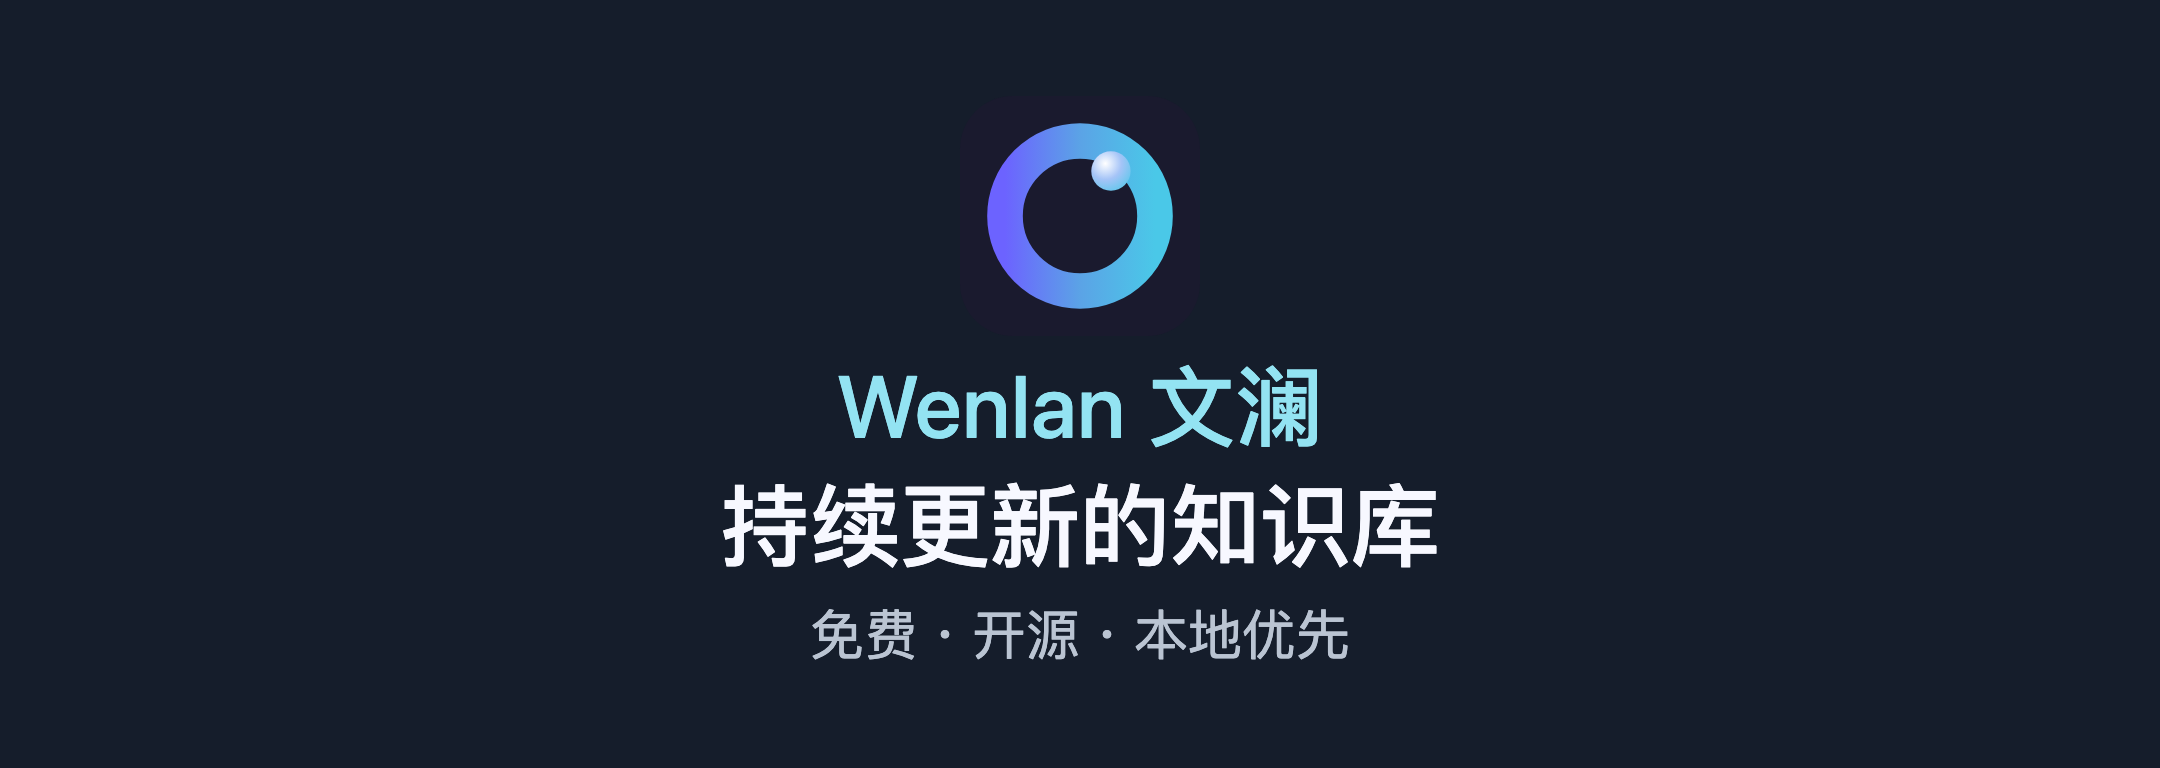
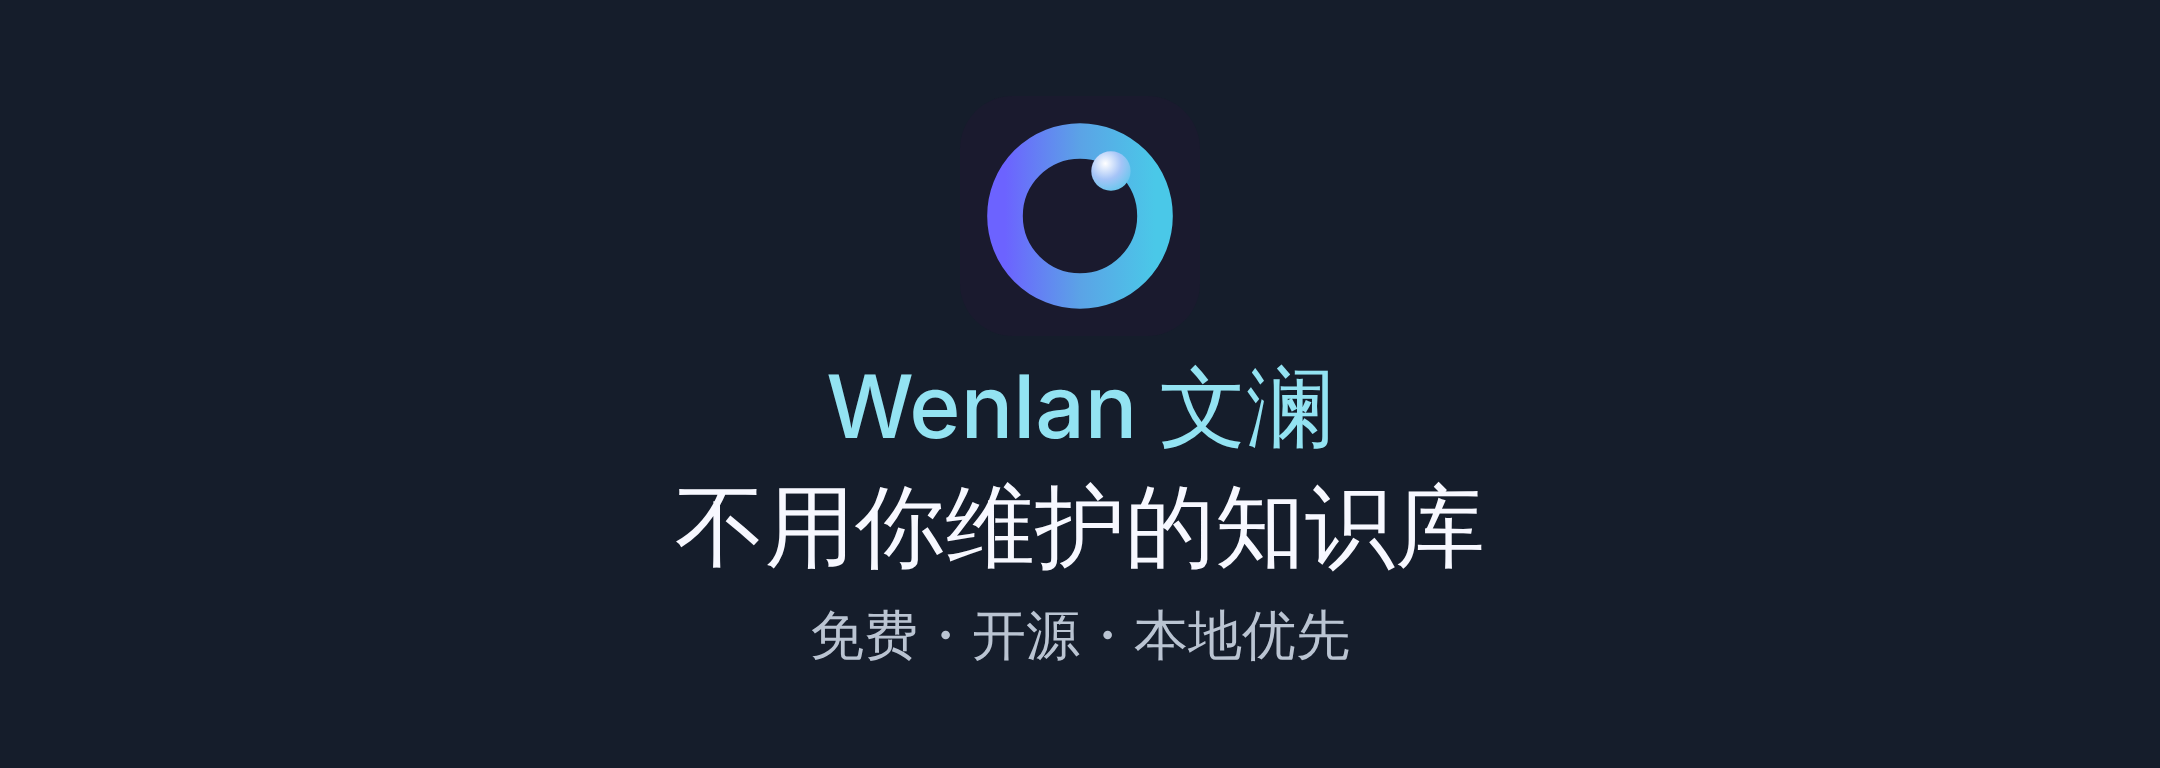
docs(readme): rewrite the opening around the knowledge base you don't have to maintain
All four READMEs now open with the locked positioning: write when you want,
your AI keeps it organized; an open-source Obsidian alternative that connects
to your AI tools in one click, with no plugins to install or maintain, and
can be shared with a team. "Why Wenlan" is rewritten to match, and "Connect
your AI tool" leads with Add a tool / Connect all before the per-tool table.

The README banners and the GitHub social preview image carry the new title;
English and Spanish banners use a two-line title.

Claude-Session: https://claude.ai/code/session_01LyK3XxRwEZRh381xxUbxi7

diff --git a/README.es-ES.md b/README.es-ES.md
@@ -1,16 +1,16 @@
-<!-- README_SYNC: source=README.md sha256=30b6ff5b752a6fd1a08377d57c043c4aef9d98f4e96e976d2ac6abc0d7af3e4b -->
+<!-- README_SYNC: source=README.md sha256=6f6a63a03c27819a5b40369a89d794d4bb3317233a7c299c6859f951b04ccc39 -->
 
 <p align="center">
   <picture>
     <source media="(max-width: 600px)" srcset="./docs/assets/readme-banner-es-ES-mobile.png">
-    <img src="./docs/assets/readme-banner-es-ES.png" alt="Wenlan: Tu wiki viva. Gratis, de código abierto y local-first." width="100%">
+    <img src="./docs/assets/readme-banner-es-ES.png" alt="Wenlan: la base de conocimiento que no tienes que mantener. Gratis, de código abierto y local-first." width="100%">
   </picture>
 </p>
 
 <p align="center">
-  <strong>Notas, código y chats de IA en una wiki, contrastada con sus fuentes.</strong><br>
-  Una sola fuente de verdad para ti y tus herramientas de IA, al día cuando cambian tus fuentes.<br>
-  Tus notas se quedan en tu equipo y solo van a las herramientas de IA que elijas.
+  <strong>Escribe cuando quieras; tu IA la mantiene organizada.</strong><br>
+  Alternativa de código abierto a Obsidian. Se conecta a tus herramientas de IA con un clic, sin plugins que instalar ni mantener.<br>
+  Compártela con tu equipo. Tus notas se quedan en tu equipo y solo van a las herramientas de IA que elijas.
 </p>
 
 <p align="center">
@@ -41,11 +41,14 @@
 
 ## Por qué Wenlan
 
-- **Tu IA la escribe y la mantiene al día:** la herramienta de IA que ya usas convierte tus notas, archivos y chats de IA en páginas, sin otro modelo.
+Empecé Wenlan porque mis notas, documentos y chats de IA estaban dispersos, y evitar que un sistema de notas se echara a perder exigía un mantenimiento constante. Wenlan es para quienes usan herramientas de IA a diario y no quieren mantener un sistema de notas.
+
+- **Escribe cuando quieras:** abre una página y escribe, en cualquier momento. Las páginas que escribiste quedan en **Ask me first**, y Wenlan nunca edita tus notas existentes sin tu permiso.
+- **Tu IA la mantiene organizada:** la herramienta de IA que ya usas convierte tus notas, archivos y chats de IA en páginas, las enlaza y las pone al día cuando cambia una fuente. Wenlan no trae una IA propia.
+- **Conexión con un clic:** **Connect all** en los ajustes configura las herramientas de IA de tu ordenador. Sin plugins que buscar, instalar ni mantener.
 - **Te dice lo que no puede respaldar:** se rechaza una página cuando la mayoría de sus citas no coinciden con la fuente, y cada cita abre el original.
-- **Marca lo que cambió:** cuando cambia una fuente, una página o una línea de código, solo se marcan las páginas que dependen de ella.
-- **Lo que escribes sigue siendo tuyo:** Wenlan nunca edita tus notas existentes sin tu permiso, y las páginas que escribiste quedan en **Ask me first**.
-- **Trae lo que ya tienes y consérvalo al cambiar de herramienta:** notas, documentos, enlaces y chats entran ([lista completa](#what-can-i-bring-in)) como Markdown local que sirve en las herramientas de IA que elijas.
+- **Compártela con tu equipo:** comparte un Space a través de una carpeta de Google Drive o iCloud Drive, y tus compañeros lo añaden en sus propios ordenadores.
+- **Trae lo que ya tienes:** notas, documentos, enlaces, chats y bóvedas de Obsidian entran ([lista completa](#what-can-i-bring-in)) como archivos Markdown locales.
 
 <a id="quickstart"></a>
 <a id="start-in-30-seconds"></a>
@@ -73,17 +76,19 @@ Crea una página o trae una bóveda de Obsidian, un grafo de Logseq, una carpeta
 
 ### 3. Conecta tu herramienta de IA
 
-| Herramienta de IA | Conexión | Configuración |
+En los ajustes de la aplicación, **Add a tool** encuentra las herramientas de IA de tu ordenador y **Connect all** las configura con un solo clic. No hay nada más que instalar ni mantener al día. Después, inicia una nueva sesión de IA y pide:
+
+> /recall mis páginas y decisiones anteriores sobre esto y luego ayúdame con: …
+
+Para configurar una herramienta a mano, o ver qué se conecta:
+
+| Herramienta de IA | Qué se configura | Guía |
 |---|---|---|
 | Claude Code / Claude Desktop | Plugin / MCP | [Guía de Claude](docs/setup-with-ai.md#claude-code) |
 | ChatGPT Desktop (Codex), Codex CLI | Plugin | [Guía de Codex](docs/setup-with-ai.md#codex) |
 | Cursor, GitHub Copilot, VS Code, Gemini CLI, Antigravity, Windsurf, Kiro, OpenCode, Kimi Code | MCP y skills | [Guía de MCP](docs/setup-with-ai.md#mcp-only-setup-and-other-clients) |
 | Muse Code y otros clientes MCP | MCP | [Guía de MCP](docs/setup-with-ai.md#mcp-only-setup-and-other-clients) |
 | Grok Bot | CLI en tu ordenador, o MCP | [Guía de Grok Bot](docs/setup-with-ai.md#grok-bot) |
-
-En los ajustes de la aplicación, **Add a tool** encuentra las herramientas de IA de tu ordenador y **Connect all** las configura con un solo clic. Después, inicia una nueva sesión de IA y pide:
-
-> /recall mis páginas y decisiones anteriores sobre esto y luego ayúdame con: …
 
 En Codex, usa `$recall`; con una herramienta solo MCP, pídele que consulte Wenlan primero. Grok Bot ejecuta `wenlan recall` en tu ordenador, o una sesión corta de `wenlan-mcp` allí ([guía de Grok Bot](docs/setup-with-ai.md#grok-bot)).
 

diff --git a/README.zh-Hant.md b/README.zh-Hant.md
@@ -1,16 +1,16 @@
-<!-- README_SYNC: source=README.md sha256=30b6ff5b752a6fd1a08377d57c043c4aef9d98f4e96e976d2ac6abc0d7af3e4b -->
+<!-- README_SYNC: source=README.md sha256=6f6a63a03c27819a5b40369a89d794d4bb3317233a7c299c6859f951b04ccc39 -->
 
 <p align="center">
   <picture>
     <source media="(max-width: 600px)" srcset="./docs/assets/readme-banner-zh-Hant-mobile.png">
-    <img src="./docs/assets/readme-banner-zh-Hant.png" alt="Wenlan：持續更新的知識庫。免費、開源、本地優先。" width="100%">
+    <img src="./docs/assets/readme-banner-zh-Hant.png" alt="文瀾：不用你維護的知識庫。免費、開源、本地優先。" width="100%">
   </picture>
 </p>
 
 <p align="center">
-  <strong>筆記、程式碼、AI 對話整理成知識庫，對照過來源。</strong><br>
-  你和 AI 工具共用同一份資料，來源變了會跟著更新。<br>
-  你的筆記留在你的電腦上，只會送到你選的 AI 工具。
+  <strong>想寫就自己寫，其他交給 AI 整理。</strong><br>
+  開源的 Obsidian 替代品。一鍵連上你的 AI 工具，不用自己裝插件、維護插件。<br>
+  還能跟團隊共用。你的筆記留在你的電腦上，只會送到你選的 AI 工具。
 </p>
 
 <p align="center">
@@ -41,13 +41,14 @@
 
 ## 為什麼用文瀾
 
-我做文瀾，是因為筆記、文件和 AI 對話散落各處又一直在變，要讓筆記庫不荒廢得不停維護。我想要一個 AI 原生、不用費心照顧的知識庫。
+我做文瀾，是因為筆記、文件和 AI 對話散落各處，要讓筆記系統不荒廢得不停維護。文瀾是給每天用 AI 工具、又不想維護筆記系統的人。
 
-- **你的 AI 幫你寫、幫你維護：** 你平常用的 AI 工具把你的文件、舊筆記和 AI 對話寫成新的筆記，不用另外裝模型。
+- **想寫就自己寫：** 隨時打開一頁就能寫。你寫的筆記設成「先問我」，沒有你同意，不會改動你原有的筆記。
+- **其他交給 AI 整理：** 你平常用的 AI 工具把你的筆記、文件和 AI 對話寫成筆記、連起來，來源變了就跟著更新。文瀾不自帶 AI。
+- **一鍵連上：** 在設定裡按「全部連接」，就連好你電腦上的 AI 工具。不用自己找插件、裝插件、維護插件。
 - **撐不住的會告訴你：** 引用大多對不上來源的筆記不會存下，每個引用都能點回原文。
-- **變了會標出來：** 來源、筆記或程式碼一變，只有依靠它的筆記會被標出來。
-- **你寫的還是你的：** 沒有你同意，不會改動你原有的筆記；你寫的筆記設成「先問我」。
-- **帶進現有資料，換工具也不怕：** 筆記、文件、連結和對話都能帶進來（[完整清單](#what-can-i-bring-in)），存成本地 Markdown，你選的 AI 工具都能用。
+- **跟團隊共用：** 把一個 Space 放進 Google Drive 或 iCloud 雲碟的資料夾共用，同事在自己的電腦上加入就能用。
+- **帶進現有資料：** 筆記、文件、連結、對話和 Obsidian vault 都能帶進來（[完整清單](#what-can-i-bring-in)），存成本地 Markdown 檔。
 
 <a id="quickstart"></a>
 <a id="start-in-30-seconds"></a>
@@ -75,17 +76,19 @@
 
 ### 3. 連接你的 AI 工具
 
-| AI 工具 | 連接方式 | 設定入口 |
+在 App 的設定裡，「新增工具」會找出你電腦上的 AI 工具，按「全部連接」一次設好，不用另外裝東西或更新。接著開一個新的 AI 對話，問它：
+
+> /recall 我之前對這件事的筆記和決定，再幫我：……
+
+想自己手動設定，或看看會連上什麼：
+
+| AI 工具 | 會設定什麼 | 說明 |
 |---|---|---|
 | Claude Code／Claude Desktop | 插件／MCP | [Claude 指南](docs/setup-with-ai.md#claude-code) |
 | ChatGPT Desktop（Codex）、Codex CLI | 插件 | [Codex 指南](docs/setup-with-ai.md#codex) |
 | Cursor、GitHub Copilot、VS Code、Gemini CLI、Antigravity、Windsurf、Kiro、OpenCode、Kimi Code | MCP 和技能 | [MCP 指南](docs/setup-with-ai.md#mcp-only-setup-and-other-clients) |
 | Muse Code 和其他 MCP 工具 | MCP | [MCP 指南](docs/setup-with-ai.md#mcp-only-setup-and-other-clients) |
 | Grok Bot | 本機 CLI，或 MCP | [Grok Bot 指南](docs/setup-with-ai.md#grok-bot) |
-
-在 App 的設定裡，「新增工具」會找出你電腦上的 AI 工具，按「全部連接」一次設好。接著開一個新的 AI 對話，問它：
-
-> /recall 我之前對這件事的筆記和決定，再幫我：……
 
 Codex 中用 `$recall`；只用 MCP 的工具，直接請它先查文瀾。Grok Bot 在你的電腦上執行 `wenlan recall`，或在那裡開一段短暫的 `wenlan-mcp` 會話（[Grok Bot 指南](docs/setup-with-ai.md#grok-bot)）。
 

diff --git a/README.zh-Hans.md b/README.zh-Hans.md
@@ -1,16 +1,16 @@
-<!-- README_SYNC: source=README.md sha256=30b6ff5b752a6fd1a08377d57c043c4aef9d98f4e96e976d2ac6abc0d7af3e4b -->
+<!-- README_SYNC: source=README.md sha256=6f6a63a03c27819a5b40369a89d794d4bb3317233a7c299c6859f951b04ccc39 -->
 
 <p align="center">
   <picture>
     <source media="(max-width: 600px)" srcset="./docs/assets/readme-banner-zh-Hans-mobile.png">
-    <img src="./docs/assets/readme-banner-zh-Hans.png" alt="Wenlan：持续更新的知识库。免费、开源、本地优先。" width="100%">
+    <img src="./docs/assets/readme-banner-zh-Hans.png" alt="文澜：不用你维护的知识库。免费、开源、本地优先。" width="100%">
   </picture>
 </p>
 
 <p align="center">
-  <strong>笔记、代码、AI 对话整理成知识库，对照过来源。</strong><br>
-  你和 AI 工具共用同一份资料，来源变了会跟着更新。<br>
-  你的笔记留在你的电脑上，只会发给你选的 AI 工具。
+  <strong>想写就自己写，其他交给 AI 整理。</strong><br>
+  开源的 Obsidian 替代品。一键连上你的 AI 工具，不用自己装插件、维护插件。<br>
+  还能跟团队共用。你的笔记留在你的电脑上，只会发给你选的 AI 工具。
 </p>
 
 <p align="center">
@@ -41,13 +41,14 @@
 
 ## 为什么用文澜
 
-我做文澜，是因为笔记、文档和 AI 对话散落各处又一直在变，要让笔记库不荒废得不停维护。我想要一个 AI 原生、不用费心照顾的知识库。
+我做文澜，是因为笔记、文档和 AI 对话散落各处，要让笔记系统不荒废得不停维护。文澜是给每天用 AI 工具、又不想维护笔记系统的人。
 
-- **你的 AI 帮你写、帮你维护：** 你平常用的 AI 工具把你的文档、旧笔记和 AI 对话写成新的笔记，不用另外装模型。
+- **想写就自己写：** 随时打开一页就能写。你写的笔记设成“先问我”，没有你同意，不会改动你原有的笔记。
+- **其他交给 AI 整理：** 你平常用的 AI 工具把你的笔记、文档和 AI 对话写成笔记、连起来，来源变了就跟着更新。文澜不自带 AI。
+- **一键连上：** 在设置里点“全部连接”，就连好你电脑上的 AI 工具。不用自己找插件、装插件、维护插件。
 - **站不住的会告诉你：** 引用大多对不上来源的笔记不会保存，每个引用都能点回原文。
-- **变了会标出来：** 来源、笔记或代码一变，只有依靠它的笔记会被标出来。
-- **你写的还是你的：** 没有你同意，不会改动你原有的笔记；你写的笔记设成“先问我”。
-- **带进现有资料，换工具也不怕：** 笔记、文档、链接和对话都能带进来（[完整清单](#what-can-i-bring-in)），存成本地 Markdown，你选的 AI 工具都能用。
+- **跟团队共用：** 把一个 Space 放进 Google Drive 或 iCloud 云盘的文件夹共用，同事在自己的电脑上加入就能用。
+- **带进现有资料：** 笔记、文档、链接、对话和 Obsidian 仓库都能带进来（[完整清单](#what-can-i-bring-in)），存成本地 Markdown 文件。
 
 <a id="quickstart"></a>
 <a id="start-in-30-seconds"></a>
@@ -75,17 +76,19 @@
 
 ### 3. 连接你的 AI 工具
 
-| AI 工具 | 连接方式 | 设置入口 |
+在 App 的设置里，“添加工具”会找出你电脑上的 AI 工具，点“全部连接”一次设好，不用另外装东西或更新。接着开一个新的 AI 会话，问它：
+
+> /recall 我之前对这件事的笔记和决定，再帮我：……
+
+想自己手动设置，或看看会连上什么：
+
+| AI 工具 | 会设置什么 | 说明 |
 |---|---|---|
 | Claude Code / Claude Desktop | 插件 / MCP | [Claude 指南](docs/setup-with-ai.md#claude-code) |
 | ChatGPT Desktop（Codex）、Codex CLI | 插件 | [Codex 指南](docs/setup-with-ai.md#codex) |
 | Cursor、GitHub Copilot、VS Code、Gemini CLI、Antigravity、Windsurf、Kiro、OpenCode、Kimi Code | MCP 和技能 | [MCP 指南](docs/setup-with-ai.md#mcp-only-setup-and-other-clients) |
 | Muse Code 和其他 MCP 工具 | MCP | [MCP 指南](docs/setup-with-ai.md#mcp-only-setup-and-other-clients) |
 | Grok Bot | 本机 CLI，或 MCP | [Grok Bot 指南](docs/setup-with-ai.md#grok-bot) |
-
-在 App 的设置里，“添加工具”会找出你电脑上的 AI 工具，点“全部连接”一次设好。接着开一个新的 AI 会话，问它：
-
-> /recall 我之前对这件事的笔记和决定，再帮我：……
 
 Codex 中用 `$recall`；只用 MCP 的工具，直接请它先查文澜。Grok Bot 在你的电脑上运行 `wenlan recall`，或在那里开一段短暂的 `wenlan-mcp` 会话（[Grok Bot 指南](docs/setup-with-ai.md#grok-bot)）。
 

diff --git a/README.md b/README.md
@@ -1,14 +1,14 @@
 <p align="center">
   <picture>
     <source media="(max-width: 600px)" srcset="./docs/assets/readme-banner-mobile.png">
-    <img src="./docs/assets/readme-banner.png" alt="Wenlan: Your living wiki. Free, open source, local-first." width="100%">
+    <img src="./docs/assets/readme-banner.png" alt="Wenlan: the knowledge base you don't have to maintain. Free, open source, local-first." width="100%">
   </picture>
 </p>
 
 <p align="center">
-  <strong>Notes, code, AI chats into a wiki, checked against sources.</strong><br>
-  One source of truth for you and your AI tools, kept up to date as your sources change.<br>
-  Your notes stay on your machine and go only to the AI tools you pick.
+  <strong>Write when you want; your AI keeps it organized.</strong><br>
+  Open-source Obsidian alternative. Connects to your AI tools in one click, with no plugins to install or maintain.<br>
+  Share it with your team. Your notes stay on your computer and go only to the AI tools you pick.
 </p>
 
 <p align="center">
@@ -39,13 +39,14 @@
 
 ## Why Wenlan
 
-I started Wenlan because my notes, documents, and AI chats were scattered and always changing, and keeping a vault from rotting took constant upkeep. I wanted an AI-native knowledge base that stays useful without the hassle.
+I started Wenlan because my notes, documents, and AI chats were scattered, and keeping a note system from rotting took constant upkeep. Wenlan is for people who use AI tools every day and don't want to maintain a note system.
 
-- **Your AI writes it and keeps it current:** The AI tool you already use turns your notes, files, and AI chats into pages, with no extra model.
+- **Write when you want:** Open a page and write, any time. Pages you wrote are set to **Ask me first**, and Wenlan never edits your existing notes without your OK.
+- **Your AI keeps it organized:** The AI tool you already use turns your notes, files, and AI chats into pages, links them, and brings them up to date when a source changes. Wenlan doesn't bring an AI of its own.
+- **One click to connect:** **Connect all** in Settings sets up the AI tools on your computer. No plugins to find, install, or maintain.
 - **It tells you what it can't back up:** A page is refused when most of its citations don't match the source, and each citation opens the original.
-- **It flags what changed:** When a source, page, or code line changes, only the pages that rely on it are flagged.
-- **What you write stays yours:** Wenlan never edits your existing notes without your OK, and pages you wrote are set to **Ask me first**.
-- **Bring what you have, keep it when you switch tools:** Notes, documents, links, and chats come in ([full list](#what-can-i-bring-in)) as local Markdown that works in the AI tools you pick.
+- **Share it with your team:** Share a Space through a Google Drive or iCloud Drive folder, and teammates add it on their own computers.
+- **Bring what you have:** Notes, documents, links, chats, and Obsidian vaults come in ([full list](#what-can-i-bring-in)) as local Markdown files.
 
 <a id="quickstart"></a>
 <a id="start-in-30-seconds"></a>
@@ -73,17 +74,19 @@ Create a page, or bring in an Obsidian vault, a Logseq graph, a folder, or earli
 
 ### 3. Connect your AI tool
 
-| AI tool | Connection | Setup |
+In the App's Settings, **Add a tool** finds the AI tools on your computer and **Connect all** sets them up in one press. There is nothing else to install or keep updated. Then start a new AI session and ask:
+
+> /recall my earlier pages and decisions on this, then help me: …
+
+To set up a tool by hand, or to see what gets connected:
+
+| AI tool | What gets set up | Guide |
 |---|---|---|
 | Claude Code / Claude Desktop | Plugin / MCP | [Claude guide](docs/setup-with-ai.md#claude-code) |
 | ChatGPT Desktop (Codex), Codex CLI | Plugin | [Codex guide](docs/setup-with-ai.md#codex) |
 | Cursor, GitHub Copilot, VS Code, Gemini CLI, Antigravity, Windsurf, Kiro, OpenCode, Kimi Code | MCP and skills | [MCP guide](docs/setup-with-ai.md#mcp-only-setup-and-other-clients) |
 | Muse Code and other MCP clients | MCP | [MCP guide](docs/setup-with-ai.md#mcp-only-setup-and-other-clients) |
 | Grok Bot | CLI on your computer, or MCP | [Grok Bot guide](docs/setup-with-ai.md#grok-bot) |
-
-In the App's Settings, **Add a tool** finds the AI tools on your computer and **Connect all** sets them up in one press. Then start a new AI session and ask:
-
-> /recall my earlier pages and decisions on this, then help me: …
 
 Use `$recall` in Codex; with an MCP-only tool, just ask it to check Wenlan first. Grok Bot runs `wenlan recall` on your computer, or a short `wenlan-mcp` session there ([Grok Bot guide](docs/setup-with-ai.md#grok-bot)).
 

diff --git a/docs/assets/README.md b/docs/assets/README.md
@@ -80,4 +80,4 @@ Source contracts: [capture](../../plugin/skills/capture/SKILL.md), [handoff](../
 
 ## Banner wording and retrieval-graph finish
 
-Banner headlines omit terminal punctuation. The brand uses Wenlan, with 文瀾 / 文澜 in Chinese variants. Desktop banners use a 1120 × 260 canvas exported at 3×; mobile exports remain 2160 × 768. Font stacks match the R126 film: SF Pro Display / Helvetica Neue for Latin, PingFang TC / SC with Noto Sans fallbacks for Chinese. The centered logo-and-copy group retains left-aligned copy and unchanged slogans. Sources and 900px/480px proofs are retained in `readme-banner-film-aligned-20261017`. Chinese uses 個人知識庫 / 个人知识库; English retains personal wiki. The latest AI-work pass retains the Claude comparison, three retrieval routes, graph relationships, and finished homepage. Source-card titles sit on the left and their native-colored type icons on the right; aligned search cues and restrained highlights distinguish queries from matching content. The Traditional Chinese PNG is byte-identical to the approved `ai-source-card-type-unified-20261017` export. English, Simplified Chinese, and Spanish retain the composition with localized line wrapping and route endpoints. All four 5400px exports were inspected at 900px; editable HTML, the unchanged film hero asset, and proofs are retained in `ai-work-publish-locales-20261017`. The earlier graph-only pass remains in `readme-graph-detail-20261017`.
+Banner headlines omit terminal punctuation. The brand uses Wenlan, with 文瀾 / 文澜 in Chinese variants. Desktop banners use a 1120 × 260 canvas exported at 3×; mobile exports remain 2160 × 768. Font stacks match the R126 film: SF Pro Display / Helvetica Neue for Latin, PingFang TC / SC with Noto Sans fallbacks for Chinese. The centered logo-and-copy group retains left-aligned copy and unchanged slogans. Sources and 900px/480px proofs are retained in `readme-banner-film-aligned-20261017`. Titles follow the November 2026 positioning: 不用你維護的知識庫 / 不用你维护的知识库 in Chinese; English and Spanish wrap their longer title onto two lines and keep the tagline below. The latest AI-work pass retains the Claude comparison, three retrieval routes, graph relationships, and finished homepage. Source-card titles sit on the left and their native-colored type icons on the right; aligned search cues and restrained highlights distinguish queries from matching content. The Traditional Chinese PNG is byte-identical to the approved `ai-source-card-type-unified-20261017` export. English, Simplified Chinese, and Spanish retain the composition with localized line wrapping and route endpoints. All four 5400px exports were inspected at 900px; editable HTML, the unchanged film hero asset, and proofs are retained in `ai-work-publish-locales-20261017`. The earlier graph-only pass remains in `readme-graph-detail-20261017`.
